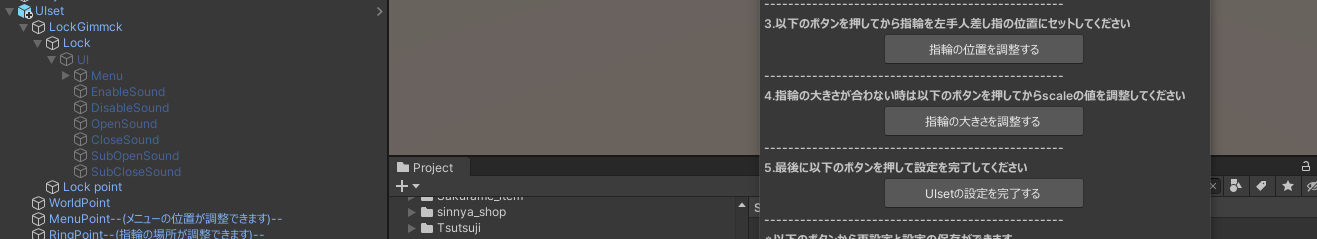
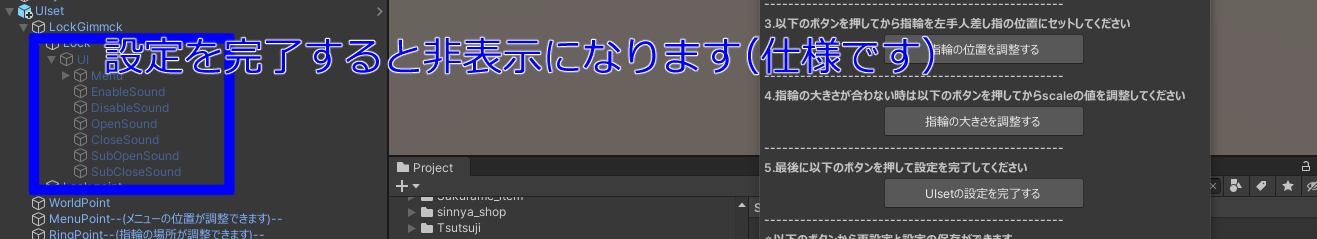
マニュアル完成

Changed region(s): [[0.0, 0.1172, 0.716, 0.8201]]

diff --git a/docs/UIset/setting/vrc.md b/docs/UIset/setting/vrc.md
@@ -6,21 +6,35 @@
 
 他のユーザーが触る場合も同様です。
 
+![before](@site/static/img/UIsetImg/menu_before.png)
+
+![after](@site/static/img/UIsetImg/menu_after.png)
+
+
+
 各種ボタンは以下のような動作となっております。
 
 - Homeボタン
   - メニューをすべて閉じます
 
+![detail](@site/static/img/UIsetImg/menu_detail.png)
+
 - SubMenuボタン
   - 各サブメニューを開きます。サブメニューを閉じたい場合は、サブメニュー右上の☓ボタンを押してください
 
+ ![sub_close](@site/static/img/UIsetImg/submenu_close.png)
+
 - Muteボタン
   - 各効果音を出さないようにします
-  - この設定のみ自動導入されるExpressionメニューから操作できます
+  - この設定は自動導入されるExpressionメニューからも操作できます
 
 - Lockボタン
   - ContactUIsetを出現させる指輪を出さないようにします。暴発防止用です
-  - この設定のみ自動導入されるExpressionメニューから操作できます
+  - この設定は自動導入されるExpressionメニューからも操作できます
+
+![exmenu](@site/static/img/UIsetImg/expression_menu.png)
+
+
 
 導入から動作についての説明は以上になります。
 

diff --git a/docs/UIset/texture_edit/index.md b/docs/UIset/texture_edit/index.md
@@ -1,7 +1,41 @@
 # ボタンの画像作成
 
+
+## テクスチャのダウンロード
+
 UIsetのboothページにPSDファイルのダウンロードボタンを設置しています。
 
 ここからPSDファイルをダウンロードして、ボタン用のテクスチャを作成してください。
 
 - <a href='https://hako-iri.booth.pm/items/4381102'>ContactUIset</a>
+
+![psdfile](@site/static/img/UIsetImg/booth_texture.png)
+
+## テクスチャの作成
+
+clipStudioなどの画像編集ソフトでPSDファイルを開きます。
+
+フォントや文字色、サイズの設定は画像を参考にしてください。
+
+**※レイヤー全体に色の反転効果をつけているため、文字色を白くしたい場合は黒を指定してください。**
+
+`フォント : Agency FB`
+
+`効果 : Bold`
+
+`文字色 : #000`
+
+`サイズ : 100`
+
+![psdfile](@site/static/img/UIsetImg/font.png)
+
+下の画像の用に自分の好きなテキストを入力します。
+
+![psdfile](@site/static/img/UIsetImg/test_text.png)
+
+
+透過pngファイルで出力して`Asset/UIset/src/material/texture/object/`に保存してください。
+
+![psdfile](@site/static/img/UIsetImg/texture_place.png)
+
+

diff --git a/docs/UIset/FAQ.md b/docs/UIset/FAQ.md
@@ -2,14 +2,13 @@
 
 ## Unityでうまく導入できない
 
-- 随時更新
-
-##
-
-- 随時更新
-
 ## VRchat上で動かない
 
 - Q. 指輪を触ってもメニューが出ない
-  - A. AllowIntaractSelfの設定がOFFになっていないか確認してみてください
+  - A. VRchatメニューのSettingsから以下の設定を確認してください。
+    - **Allow/PauseInteractions** が<font color='Red'>ON</font>になっているか
+    - **Self Interact** が<font color='Red'>ON</font>になっているか
 
+![psdfile](@site/static/img/UIsetImg/allow.png)
+
+その他不具合が有りましたら随時更新させていただきますので、SNSやboothのお問い合わせフォームからご連絡ください。

diff --git a/docs/UIset/index.md b/docs/UIset/index.md
@@ -9,7 +9,7 @@
 - lilToon_1.3.7
 - ModularAvatar_1.4.5
 
-また最新版のVRChatSDKを使用しているため、**VCCでの導入を前提としています**。
+また最新版のVRChatSDKを使用しているため、<font color='Red'>**VCCでの導入を前提としています**</font>。
 
 unityPackage版のVRCSDKでは動作を保証できないためご了承下さい。
 - <a href='https://vcc.docs.vrchat.com/'> VRChatCreatorCompaniton(VCC) </a>
